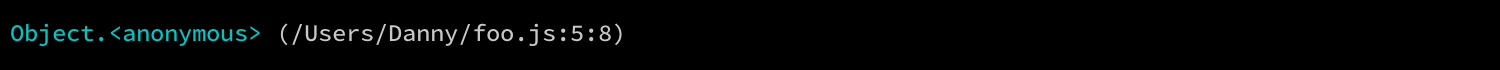
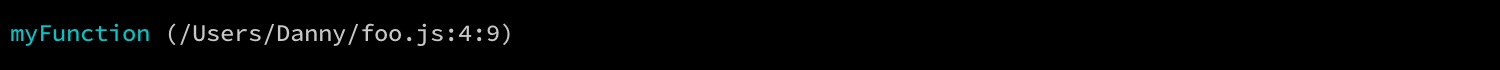
Tweak `dantil.logLineId()` example

Changed region(s): [[0.0, 0.3429, 0.4293, 0.6571]]

diff --git a/dantil.js b/dantil.js
@@ -1221,13 +1221,16 @@ exports.logLine = function (label) {
  * ```
  * The contents of `foo.js`:
  * ```js
- * var myCondition = true
- * dantil.logLineIf(myCondition)
+ * function myFunction(myCondition) {
+ *   dantil.logLineIf(myCondition)
+ * }
  * ```
  * Output:
  * <br><img src="https://raw.githubusercontent.com/DannyNemer/dantil/master/doc/img/dantil-logLineIf-example.jpg" alt="dantil.logLineIf() example output"/>
  * ```js
- * dantil.logLineIf(myCondition, 'Condition met!')
+ * function myFunction(myCondition) {
+ *   dantil.logLineIf(myCondition, 'Condition met!')
+ * }
  * ```
  * Output:
  * <br><img src="https://raw.githubusercontent.com/DannyNemer/dantil/master/doc/img/dantil-logLineIf-label-example.jpg" alt="dantil.logLineIf(label) example output"/>

diff --git a/README.md b/README.md
@@ -971,7 +971,7 @@ Output:
 <!-- div -->
 
 ### <a id="dantil-logLineIf"></a>`dantil.logLineIf(value, [label])`
-<a href="#dantil-logLineIf">#</a> [&#x24C8;](https://github.com/DannyNemer/dantil/blob/master/dantil.js#L1236 "View in source") [&#x24C9;][1]
+<a href="#dantil-logLineIf">#</a> [&#x24C8;](https://github.com/DannyNemer/dantil/blob/master/dantil.js#L1239 "View in source") [&#x24C9;][1]
 
 If `value` is truthy, prints the calling function name, file path, and line number. This is useful for marking reaching a section of code.
 
@@ -982,13 +982,16 @@ If `value` is truthy, prints the calling function name, file path, and line numb
 #### Example
 The contents of `foo.js`:
 ```js
-var myCondition = true
-dantil.logLineIf(myCondition)
+function myFunction(myCondition) {
+  dantil.logLineIf(myCondition)
+}
 ```
 Output:
 <br><img src="https://raw.githubusercontent.com/DannyNemer/dantil/master/doc/img/dantil-logLineIf-example.jpg" alt="dantil.logLineIf() example output"/>
 ```js
-dantil.logLineIf(myCondition, 'Condition met!')
+function myFunction(myCondition) {
+  dantil.logLineIf(myCondition, 'Condition met!')
+}
 ```
 Output:
 <br><img src="https://raw.githubusercontent.com/DannyNemer/dantil/master/doc/img/dantil-logLineIf-label-example.jpg" alt="dantil.logLineIf(label) example output"/>
@@ -999,7 +1002,7 @@ Output:
 <!-- div -->
 
 ### <a id="dantil-prettifyStackTrace"></a>`dantil.prettifyStackTrace([removePathParens])`
-<a href="#dantil-prettifyStackTrace">#</a> [&#x24C8;](https://github.com/DannyNemer/dantil/blob/master/dantil.js#L1260 "View in source") [&#x24C9;][1]
+<a href="#dantil-prettifyStackTrace">#</a> [&#x24C8;](https://github.com/DannyNemer/dantil/blob/master/dantil.js#L1263 "View in source") [&#x24C9;][1]
 
 Modifies V8's default stack trace format (when printing) to stylize output and collect 15 stack frames instead of (the default) 10.
 
@@ -1028,7 +1031,7 @@ After:
 <!-- div -->
 
 ### <a id="dantil-assertEqual"></a>`dantil.assertEqual(value, other, [message])`
-<a href="#dantil-assertEqual">#</a> [&#x24C8;](https://github.com/DannyNemer/dantil/blob/master/dantil.js#L1332 "View in source") [&#x24C9;][1]
+<a href="#dantil-assertEqual">#</a> [&#x24C8;](https://github.com/DannyNemer/dantil/blob/master/dantil.js#L1335 "View in source") [&#x24C9;][1]
 
 Tests shallow, coercive equality with the equal comparison operator (`==`). If the test fails, prints an error message and the file path and line number to `stderr`. In contrast, Node's `assert.equal()` throws an exception.
 
@@ -1074,7 +1077,7 @@ if (dantil.assertEqual(myArray.length, 100)) {
 <!-- div -->
 
 ### <a id="dantil-time"></a>`dantil.time(label)`
-<a href="#dantil-time">#</a> [&#x24C8;](https://github.com/DannyNemer/dantil/blob/master/dantil.js#L1376 "View in source") [&#x24C9;][1]
+<a href="#dantil-time">#</a> [&#x24C8;](https://github.com/DannyNemer/dantil/blob/master/dantil.js#L1379 "View in source") [&#x24C9;][1]
 
 Starts a high-resolution timer (with precision in microseconds) identified by `label`. Use `dantil.timeEnd(label)` to print the timer's current value.
 
@@ -1103,7 +1106,7 @@ dantil.timeEnd('my test')
 <!-- div -->
 
 ### <a id="dantil-timeEnd"></a>`dantil.timeEnd(label)`
-<a href="#dantil-timeEnd">#</a> [&#x24C8;](https://github.com/DannyNemer/dantil/blob/master/dantil.js#L1386 "View in source") [&#x24C9;][1]
+<a href="#dantil-timeEnd">#</a> [&#x24C8;](https://github.com/DannyNemer/dantil/blob/master/dantil.js#L1389 "View in source") [&#x24C9;][1]
 
 Prints the current high-resolution value of a timer initiated with `dantil.time(label)`.
 
@@ -1117,7 +1120,7 @@ Prints the current high-resolution value of a timer initiated with `dantil.time(
 <!-- div -->
 
 ### <a id="dantil-count"></a>`dantil.count(label)`
-<a href="#dantil-count">#</a> [&#x24C8;](https://github.com/DannyNemer/dantil/blob/master/dantil.js#L1413 "View in source") [&#x24C9;][1]
+<a href="#dantil-count">#</a> [&#x24C8;](https://github.com/DannyNemer/dantil/blob/master/dantil.js#L1416 "View in source") [&#x24C9;][1]
 
 Increments the invocation count for `label`. Use `dantil.end(label)` or `dantil.endAll()` to print the counter's value. This is useful for profiling the number of times a section of code is reached.
 
@@ -1141,7 +1144,7 @@ dantil.countEnd('even')
 <!-- div -->
 
 ### <a id="dantil-countEnd"></a>`dantil.countEnd(label)`
-<a href="#dantil-countEnd">#</a> [&#x24C8;](https://github.com/DannyNemer/dantil/blob/master/dantil.js#L1423 "View in source") [&#x24C9;][1]
+<a href="#dantil-countEnd">#</a> [&#x24C8;](https://github.com/DannyNemer/dantil/blob/master/dantil.js#L1426 "View in source") [&#x24C9;][1]
 
 Prints (and resets the value of) the number of `dantil.count(label)` invocations.
 
@@ -1155,7 +1158,7 @@ Prints (and resets the value of) the number of `dantil.count(label)` invocations
 <!-- div -->
 
 ### <a id="dantil-countEndAll"></a>`dantil.countEndAll`
-<a href="#dantil-countEndAll">#</a> [&#x24C8;](https://github.com/DannyNemer/dantil/blob/master/dantil.js#L1444 "View in source") [&#x24C9;][1]
+<a href="#dantil-countEndAll">#</a> [&#x24C8;](https://github.com/DannyNemer/dantil/blob/master/dantil.js#L1447 "View in source") [&#x24C9;][1]
 
 Prints (and resets the values of) the counter value of each label recorded by `counter.count()`, and each counter's value as a percentage of all counters.
 <br>
@@ -1186,7 +1189,7 @@ dantil.endAll()
 <!-- div -->
 
 ### <a id="dantil-clone"></a>`dantil.clone(value)`
-<a href="#dantil-clone">#</a> [&#x24C8;](https://github.com/DannyNemer/dantil/blob/master/dantil.js#L1464 "View in source") [&#x24C9;][1]
+<a href="#dantil-clone">#</a> [&#x24C8;](https://github.com/DannyNemer/dantil/blob/master/dantil.js#L1467 "View in source") [&#x24C9;][1]
 
 Creates a shallow clone of `value`.
 
@@ -1213,7 +1216,7 @@ shallow[0] === objects[0]
 <!-- div -->
 
 ### <a id="dantil-isDeepEqual"></a>`dantil.isDeepEqual(value, other, [customizer], [thisArg])`
-<a href="#dantil-isDeepEqual">#</a> [&#x24C8;](https://github.com/DannyNemer/dantil/blob/master/dantil.js#L1509 "View in source") [&#x24C9;][1]
+<a href="#dantil-isDeepEqual">#</a> [&#x24C8;](https://github.com/DannyNemer/dantil/blob/master/dantil.js#L1512 "View in source") [&#x24C9;][1]
 
 Performs a deep comparison between two values to determine if they are equivalent using the [`lodash.isEqual`](https://npmjs.com/package/lodash.isequal) module.
 
@@ -1250,7 +1253,7 @@ dantil.isDeepEqual(object, other)
 <!-- div -->
 
 ### <a id="dantil-unary"></a>`dantil.unary(func)`
-<a href="#dantil-unary">#</a> [&#x24C8;](https://github.com/DannyNemer/dantil/blob/master/dantil.js#L1524 "View in source") [&#x24C9;][1]
+<a href="#dantil-unary">#</a> [&#x24C8;](https://github.com/DannyNemer/dantil/blob/master/dantil.js#L1527 "View in source") [&#x24C9;][1]
 
 Creates a function that accepts up to one argument, ignoring any additional arguments.
 
@@ -1278,7 +1281,7 @@ Creates a function that accepts up to one argument, ignoring any additional argu
 <!-- div -->
 
 ### <a id="dantil-objectsEqual"></a>`dantil.objectsEqual(a, b)`
-<a href="#dantil-objectsEqual">#</a> [&#x24C8;](https://github.com/DannyNemer/dantil/blob/master/dantil.js#L1560 "View in source") [&#x24C9;][1]
+<a href="#dantil-objectsEqual">#</a> [&#x24C8;](https://github.com/DannyNemer/dantil/blob/master/dantil.js#L1563 "View in source") [&#x24C9;][1]
 
 Performs a shallow comparison between two objects to determine if they are equivalent.
 
@@ -1317,7 +1320,7 @@ dantil.objectsEqual({ a: objA, b: objB }, { a: objA, b: objB })
 <!-- div -->
 
 ### <a id="dantil-deleteUndefinedObjectProps"></a>`dantil.deleteUndefinedObjectProps(object)`
-<a href="#dantil-deleteUndefinedObjectProps">#</a> [&#x24C8;](https://github.com/DannyNemer/dantil/blob/master/dantil.js#L1586 "View in source") [&#x24C9;][1]
+<a href="#dantil-deleteUndefinedObjectProps">#</a> [&#x24C8;](https://github.com/DannyNemer/dantil/blob/master/dantil.js#L1589 "View in source") [&#x24C9;][1]
 
 Recursively removes all properties of `object` defined as `undefined`. This is useful for object comparisons and pretty-printing.
 <br>
@@ -1337,7 +1340,7 @@ Recursively removes all properties of `object` defined as `undefined`. This is u
 <!-- div -->
 
 ### <a id="dantil-diffObjects"></a>`dantil.diffObjects(object, other, [collapsed])`
-<a href="#dantil-diffObjects">#</a> [&#x24C8;](https://github.com/DannyNemer/dantil/blob/master/dantil.js#L1652 "View in source") [&#x24C9;][1]
+<a href="#dantil-diffObjects">#</a> [&#x24C8;](https://github.com/DannyNemer/dantil/blob/master/dantil.js#L1655 "View in source") [&#x24C9;][1]
 
 Compares two objects line by line and stylizes the differences for printing.
 
@@ -1402,7 +1405,7 @@ Collapsed output:
 <!-- div -->
 
 ### <a id="dantil-arraysEqual"></a>`dantil.arraysEqual(a, b, [predicate])`
-<a href="#dantil-arraysEqual">#</a> [&#x24C8;](https://github.com/DannyNemer/dantil/blob/master/dantil.js#L1766 "View in source") [&#x24C9;][1]
+<a href="#dantil-arraysEqual">#</a> [&#x24C8;](https://github.com/DannyNemer/dantil/blob/master/dantil.js#L1769 "View in source") [&#x24C9;][1]
 
 Performs a shallow comparison between two arrays to determine if they are equivalent.
 <br>
@@ -1450,7 +1453,7 @@ dantil.arraysEqual([ objA, objB ], [ objA, objB ])
 <!-- div -->
 
 ### <a id="dantil-new2DArray"></a>`dantil.new2DArray(length, [subLength=0])`
-<a href="#dantil-new2DArray">#</a> [&#x24C8;](https://github.com/DannyNemer/dantil/blob/master/dantil.js#L1810 "View in source") [&#x24C9;][1]
+<a href="#dantil-new2DArray">#</a> [&#x24C8;](https://github.com/DannyNemer/dantil/blob/master/dantil.js#L1813 "View in source") [&#x24C9;][1]
 
 Creates a new two-dimensional array with length `length`.
 
@@ -1476,7 +1479,7 @@ dantil.new2DArray(4, 2)
 <!-- div -->
 
 ### <a id="dantil-without"></a>`dantil.without(array, [values])`
-<a href="#dantil-without">#</a> [&#x24C8;](https://github.com/DannyNemer/dantil/blob/master/dantil.js#L1836 "View in source") [&#x24C9;][1]
+<a href="#dantil-without">#</a> [&#x24C8;](https://github.com/DannyNemer/dantil/blob/master/dantil.js#L1839 "View in source") [&#x24C9;][1]
 
 Creates an array excluding all provided values.
 
@@ -1505,7 +1508,7 @@ dantil.without([ 3, 1, 4, 1, 5 ], 1, 5)
 <!-- div -->
 
 ### <a id="dantil-cleanFloat"></a>`dantil.cleanFloat(number)`
-<a href="#dantil-cleanFloat">#</a> [&#x24C8;](https://github.com/DannyNemer/dantil/blob/master/dantil.js#L1870 "View in source") [&#x24C9;][1]
+<a href="#dantil-cleanFloat">#</a> [&#x24C8;](https://github.com/DannyNemer/dantil/blob/master/dantil.js#L1873 "View in source") [&#x24C9;][1]
 
 Removes any extraneous digits from `number`, which result from operations limited by JavaScript's floating point number precision, such as `0.1 * 0.2` (which does not equal `0.02`). This limitation results from being unable to map `0.1` to a finite binary floating point number.
 
@@ -1536,7 +1539,7 @@ number = dantil.cleanFloat(number)
 <!-- div -->
 
 ### <a id="dantil-diffStrings"></a>`dantil.diffStrings(expected, actual)`
-<a href="#dantil-diffStrings">#</a> [&#x24C8;](https://github.com/DannyNemer/dantil/blob/master/dantil.js#L1898 "View in source") [&#x24C9;][1]
+<a href="#dantil-diffStrings">#</a> [&#x24C8;](https://github.com/DannyNemer/dantil/blob/master/dantil.js#L1901 "View in source") [&#x24C9;][1]
 
 Compares two strings word by word and stylizes the differences for printing.
 
@@ -1566,7 +1569,7 @@ Output:
 <!-- div -->
 
 ### <a id="dantil-format"></a>`dantil.format(string, [placeholderVals])`
-<a href="#dantil-format">#</a> [&#x24C8;](https://github.com/DannyNemer/dantil/blob/master/dantil.js#L1936 "View in source") [&#x24C9;][1]
+<a href="#dantil-format">#</a> [&#x24C8;](https://github.com/DannyNemer/dantil/blob/master/dantil.js#L1939 "View in source") [&#x24C9;][1]
 
 Formats a string in a `printf()`-like format using Node's `util.format()`.
 
@@ -1589,7 +1592,7 @@ dantil.format('%s:%s %d', 'foo', 'bar', 22)
 <!-- div -->
 
 ### <a id="dantil-kebabToCamelCase"></a>`dantil.kebabToCamelCase(kebabCasedString)`
-<a href="#dantil-kebabToCamelCase">#</a> [&#x24C8;](https://github.com/DannyNemer/dantil/blob/master/dantil.js#L1951 "View in source") [&#x24C9;][1]
+<a href="#dantil-kebabToCamelCase">#</a> [&#x24C8;](https://github.com/DannyNemer/dantil/blob/master/dantil.js#L1954 "View in source") [&#x24C9;][1]
 
 Converts kebab cased `string` to camel case.
 
@@ -1611,7 +1614,7 @@ dantil.kebabToCamelCase('my-long-variable-name')
 <!-- div -->
 
 ### <a id="dantil-camelToKebabCase"></a>`dantil.camelToKebabCase(camelCasedString)`
-<a href="#dantil-camelToKebabCase">#</a> [&#x24C8;](https://github.com/DannyNemer/dantil/blob/master/dantil.js#L1970 "View in source") [&#x24C9;][1]
+<a href="#dantil-camelToKebabCase">#</a> [&#x24C8;](https://github.com/DannyNemer/dantil/blob/master/dantil.js#L1973 "View in source") [&#x24C9;][1]
 
 Converts camel cased `string` to kebab case.
 
@@ -1633,7 +1636,7 @@ dantil.camelToKebabCase('myLongVariableName')
 <!-- div -->
 
 ### <a id="dantil-enquote"></a>`dantil.enquote(string)`
-<a href="#dantil-enquote">#</a> [&#x24C8;](https://github.com/DannyNemer/dantil/blob/master/dantil.js#L1989 "View in source") [&#x24C9;][1]
+<a href="#dantil-enquote">#</a> [&#x24C8;](https://github.com/DannyNemer/dantil/blob/master/dantil.js#L1992 "View in source") [&#x24C9;][1]
 
 Encloses `string` in single quotes.
 
